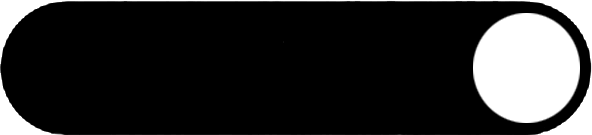
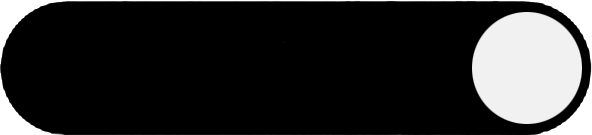
merge

diff --git a/Dirty/dirty.css b/Dirty/dirty.css
@@ -23,8 +23,7 @@
 .charsheet button.sheet-link_reserve {
 	width: 27px;
     height: 27px;
-    /* border: solid 3px #000000;   */
-    border-radius: 50%;
+    border: solid 2px #000000;
     display: flex;
     justify-content: center;
     align-items: center;
@@ -49,8 +48,6 @@
 .charsheet button:hover.sheet-link_reserve {
 	width: 27px;
     height: 27px;
-    /* border: solid 3px #000000; */
-    border-radius: 50%;
     display: flex;
     justify-content: center;
     align-items: center;
@@ -74,7 +71,6 @@
 .charsheet button.sheet-link_reserve > span {
     width: 27px;
     height: 27px;
-    border-radius: 50%;
     display: flex;
     justify-content: center;
     align-items: center;
